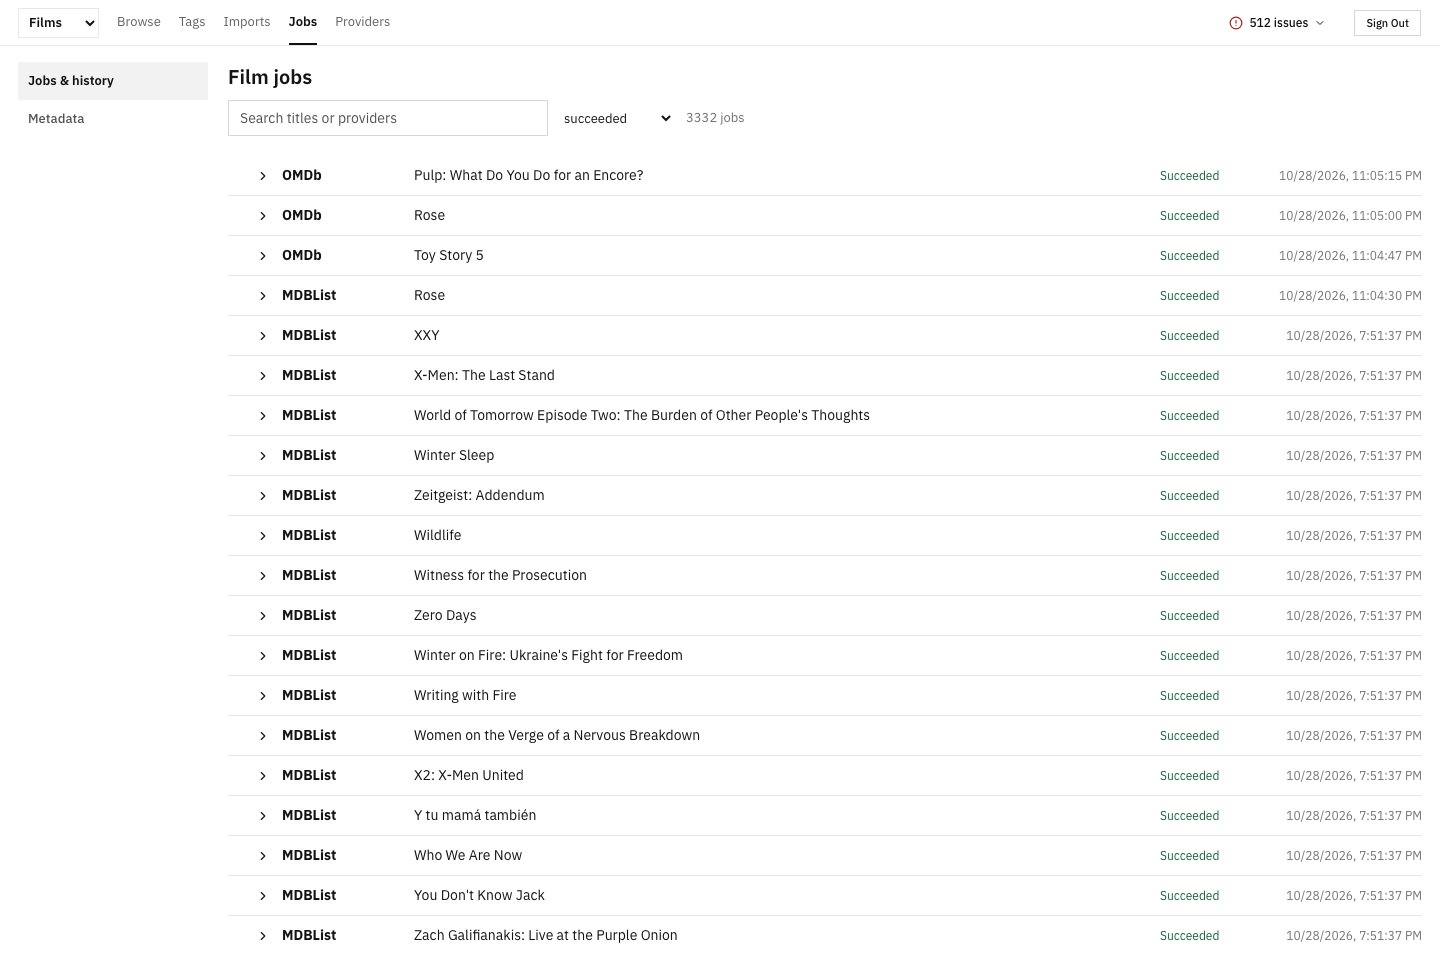
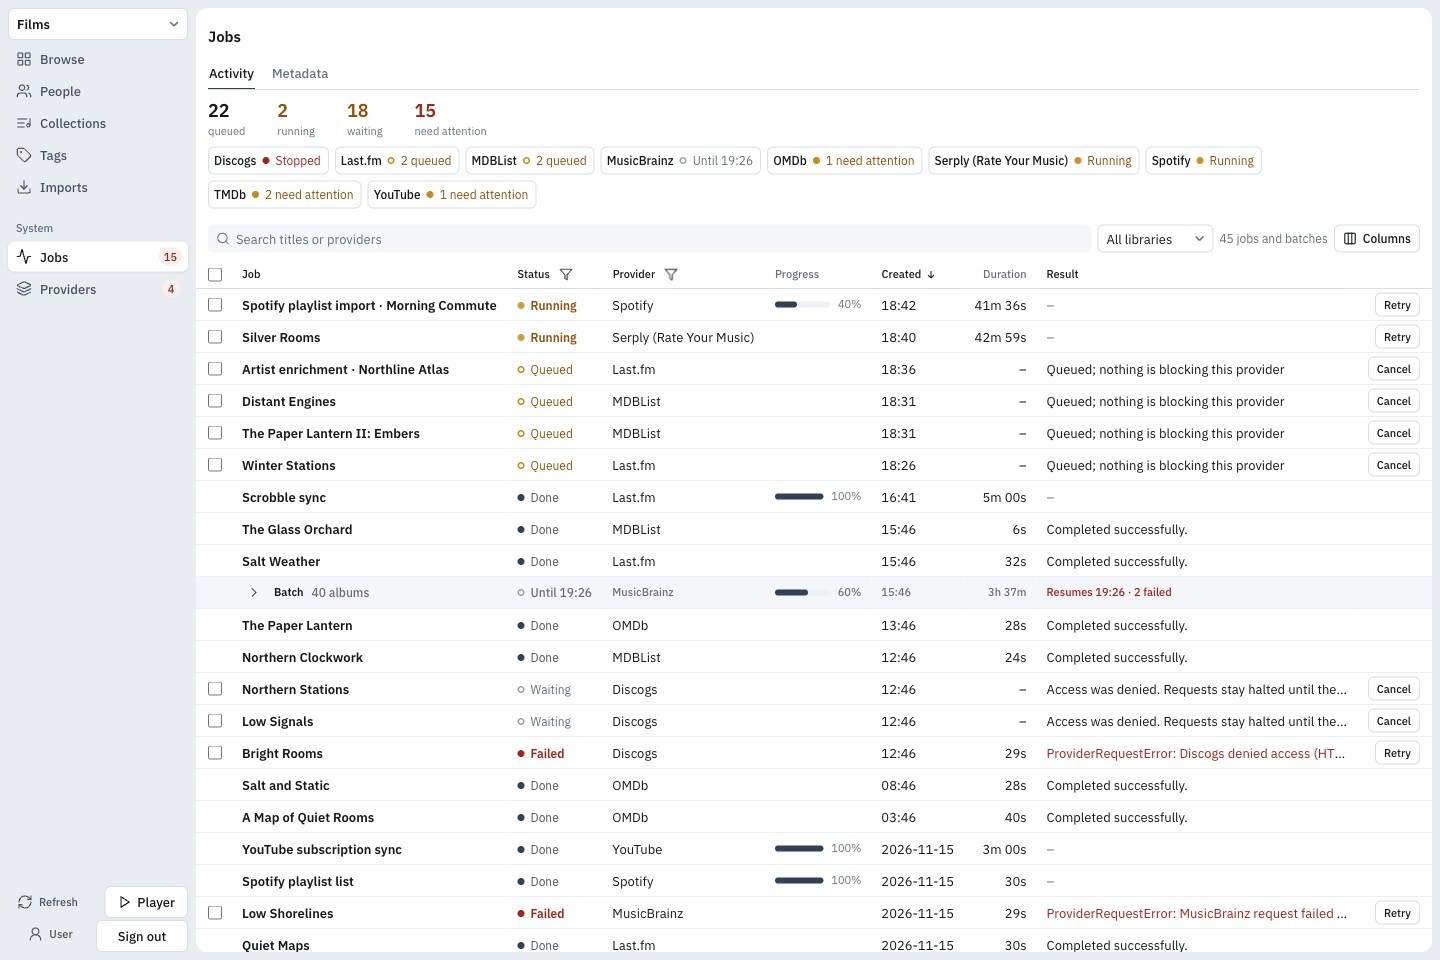
Refresh the README screenshots and wording for the rebuilt interface
The five screenshots are retaken from a disposable database with synthetic
data. Provider settings, playback connection, views and Jobs are described
as they now work.

diff --git a/README.md b/README.md
@@ -8,14 +8,14 @@ This project is a fork of [CSDR Cloud Spatial App](https://github.com/Sustainabl
 
 ## What it does
 
-- **Browse your collection.** Search titles, people and tags; filter and sort metadata; switch between grid and table views. Open details without losing your place.
+- **Browse your collection.** Search titles, people and tags; filter and sort metadata; switch between grid, list and table views. Open details without losing your place.
 - **Bring your own library.** Preview IMDb ratings/watchlist CSVs, album CSVs and local NFO files before importing. Spotify can import saved albums with your permission.
 - **Search your subscriptions.** Sync the YouTube channels you subscribe to and the Spotify podcasts you save, then search their videos and episodes by text, channel, type, length and date.
 - **Choose your metadata.** Configure providers independently and fetch only the films or albums you select. Ratings link back to their sources.
 - **Keep track of changes.** Inspect provider history, correct identifiers, manage tags and preserve personal ratings and manual edits.
 - **Control background work.** Review jobs before starting them, monitor progress, and retry unfinished work. Provider budgets and cooldowns stay in place.
 
-This is a self-hosted app for a personal collection. It runs a Next.js frontend, a Hono API and PostgreSQL. Spotify links open in Spotify. Optional [in-app playback](docs/spotify-playback.md) for Spotify Premium accounts is off until connected in Providers.
+This is a self-hosted app for a personal collection. It runs a Next.js frontend, a Hono API and PostgreSQL. Spotify links open in Spotify. Optional [in-app playback](docs/spotify-playback.md) for Spotify Premium accounts is off until you connect it from the player.
 
 ## Getting started
 
@@ -48,23 +48,23 @@ The [getting started guide](docs/getting-started.md) covers the full setup, envi
 | Films   | TMDb, OMDb, MDBList                                                |
 | Albums  | Spotify, MusicBrainz, Last.fm, Discogs, Serply for Rate Your Music |
 
-Choose **Providers → Credentials** to configure a service, **Activity** to inspect requests and **Settings** to see its limits. Only configure the services you want to use. Some services require an account or paid API access. Serply uses indexed search results, so its ratings can lag the source.
+Open a service from **Providers**: **Settings** holds its credentials and limits, and **Overview** shows its requests. Only configure the services you want to use. Some services require an account or paid API access. Serply uses indexed search results, so its ratings can lag the source.
 
 ![Album library](docs/screenshots/albums.jpg)
 
 ## Working with your library
 
-Use the Films/Albums selector to switch libraries. Filters, sorting, visible table columns and grid density are saved separately. **Filters** opens a panel from the right with collapsible **Views**, **Smart playlists** (albums), **Ranges**, **Listening** (albums) and **Columns** (table) sections. Search, sorting, the layout switcher and result count stay in the toolbar.
+Use the library selector to switch libraries. Filters, sorting, visible table columns and grid density are saved separately. **Filters** opens a panel from the right with collapsible **Views**, **Smart playlists** (albums), **Ranges**, **Listening** (albums) and **Columns** (table) sections. Search, sorting, the layout switcher and result count stay in the toolbar.
 
 Film and album details bring together ratings, credits, tags, provider links and history. Correct metadata in Edit; those overrides survive later imports and refreshes.
 
 ![Film details](docs/screenshots/film-details.jpg)
 
-**Jobs → Metadata** handles both first-time lookups and refreshes. Select items and providers, review the total, then confirm. In job history, select an action and review it before applying it. Viewing a page never starts a metadata job.
+**Jobs → Metadata** handles both first-time lookups and refreshes. Select items and providers, review the total, then confirm. On **Jobs**, select jobs, choose an action and review it before applying it. Viewing a page never starts a metadata job.
 
-![Job history](docs/screenshots/jobs.jpg)
+![Jobs](docs/screenshots/jobs.jpg)
 
-![Provider activity and settings navigation](docs/screenshots/providers.jpg)
+![Providers overview](docs/screenshots/providers.jpg)
 
 ## Documentation
 
